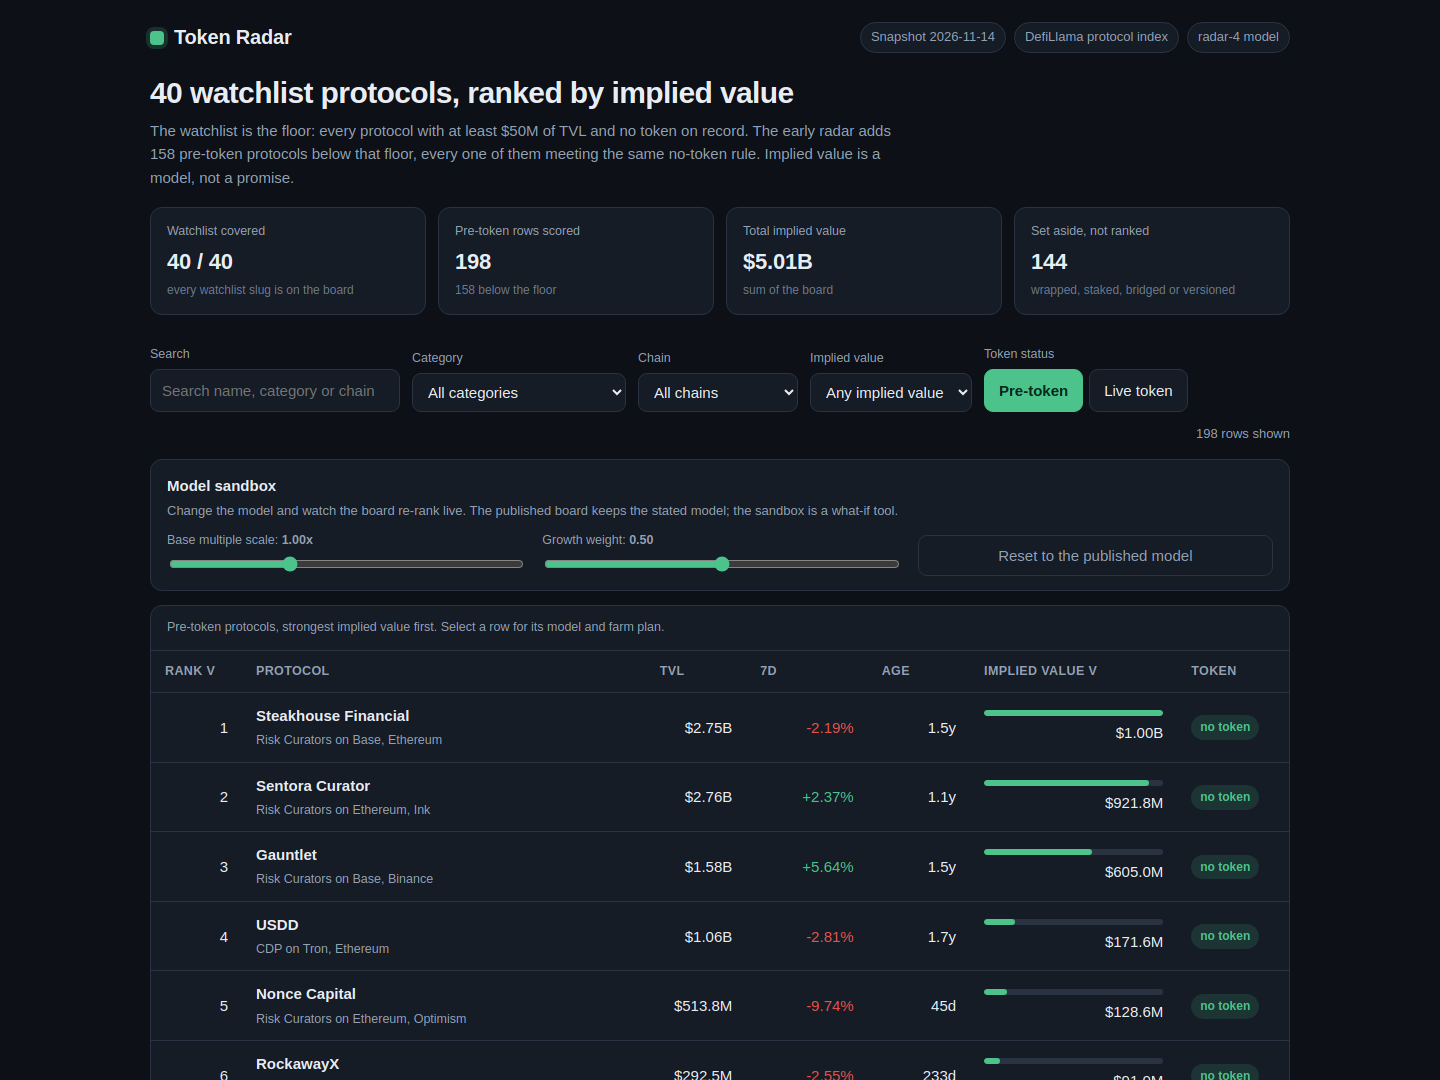
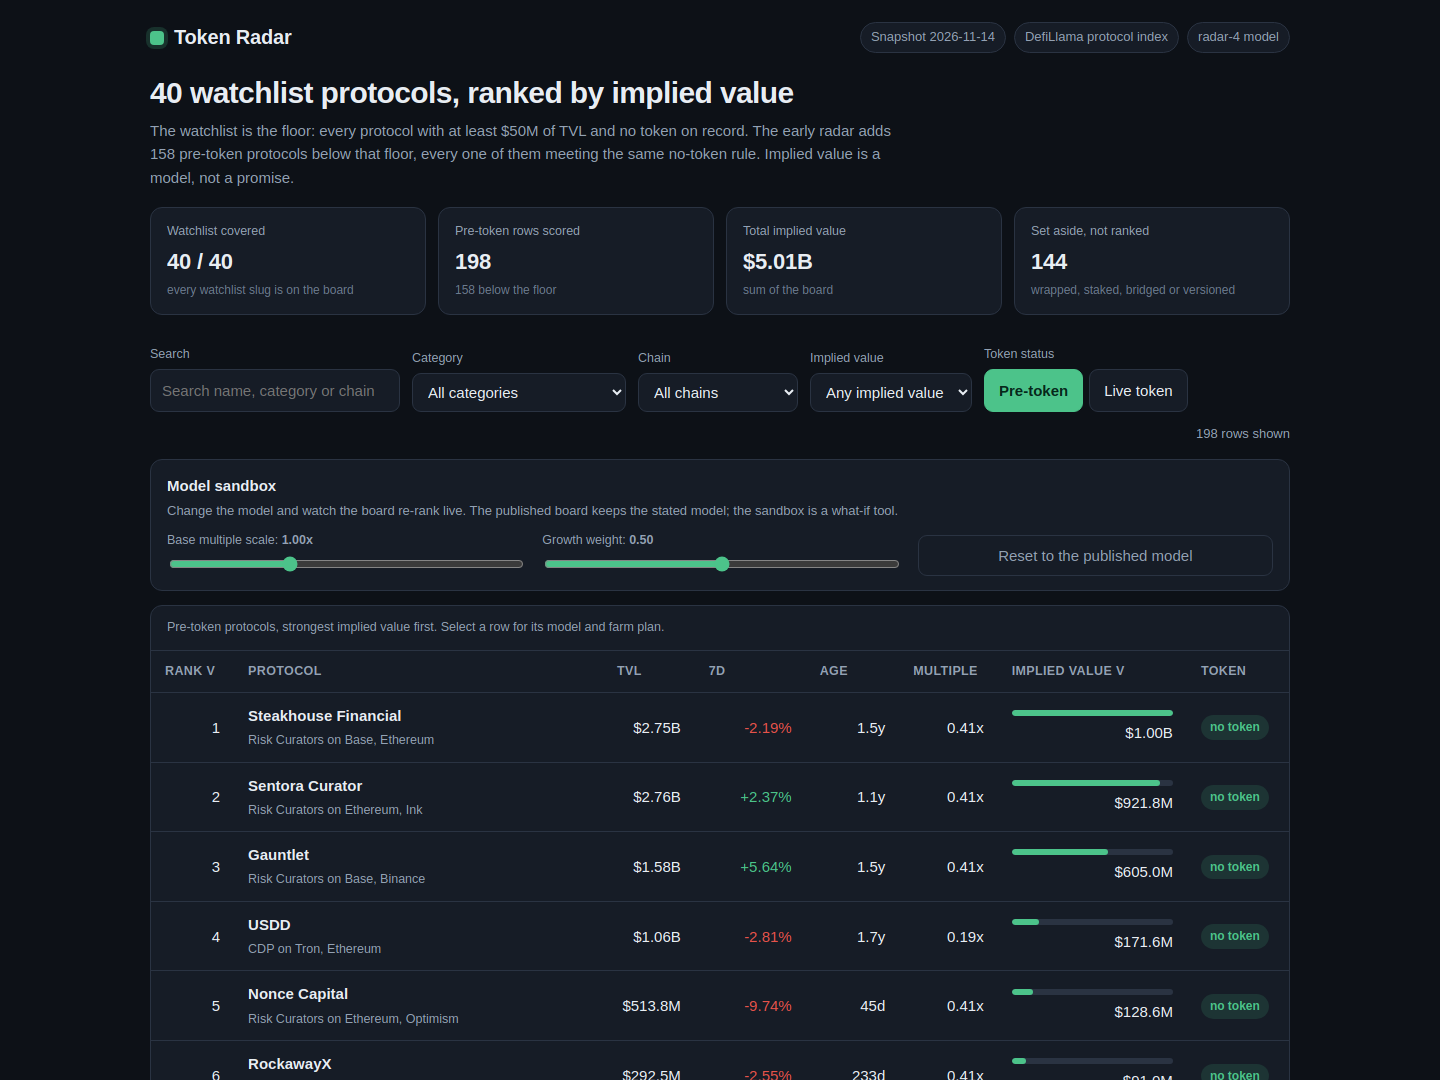
Token Radar radar-4: visible Multiple column on the board
The board now shows each row's calibrated multiple beside its implied
value, sortable, so the calibration is checkable row by row in the
screenshot itself, not only in the methodology panel. Screenshots
regenerated from this build.

diff --git a/dashboard/app.js b/dashboard/app.js
@@ -239,6 +239,7 @@ function boardTable() {
       el('td', { class: 'num', text: fmtUsd(r.tvl_usd) }),
       el('td', { class: 'num ' + growthClass, text: growth }),
       el('td', { class: 'num', text: fmtAge(r.age_days) }),
+      el('td', { class: 'num', text: fmtMult(r.multiple) }),
       el('td', null, el('div', { class: 'implied' },
         el('div', { class: 'bar', 'aria-hidden': 'true' }, el('i', { style: 'width:' + Math.max(3, Math.round((r.displayImplied / max) * 100)) + '%' })),
         el('span', { class: 'num', text: fmtUsd(r.displayImplied) }))),
@@ -255,6 +256,7 @@ function boardTable() {
           sortHeader('tvl', 'TVL'),
           sortHeader('growth', '7d'),
           sortHeader('age', 'Age'),
+          sortHeader('multiple', 'Multiple'),
           sortHeader('implied', 'Implied value'),
           el('th', { scope: 'col', text: 'Token' }))),
         tbody)));
